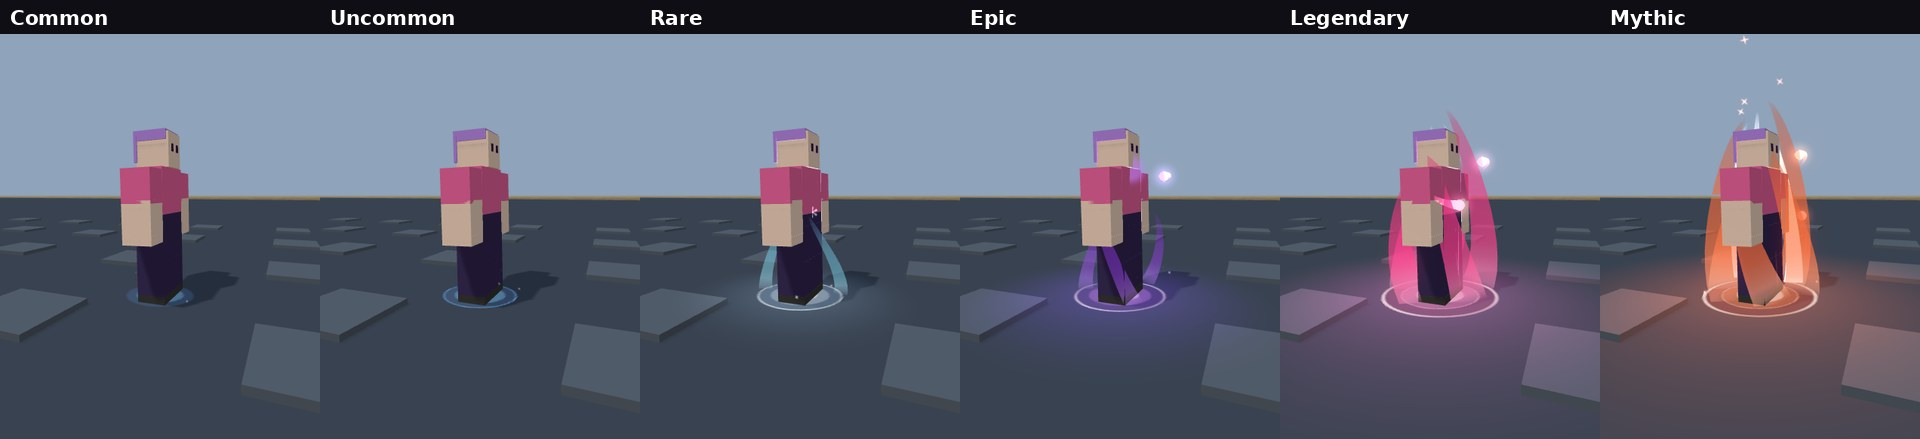
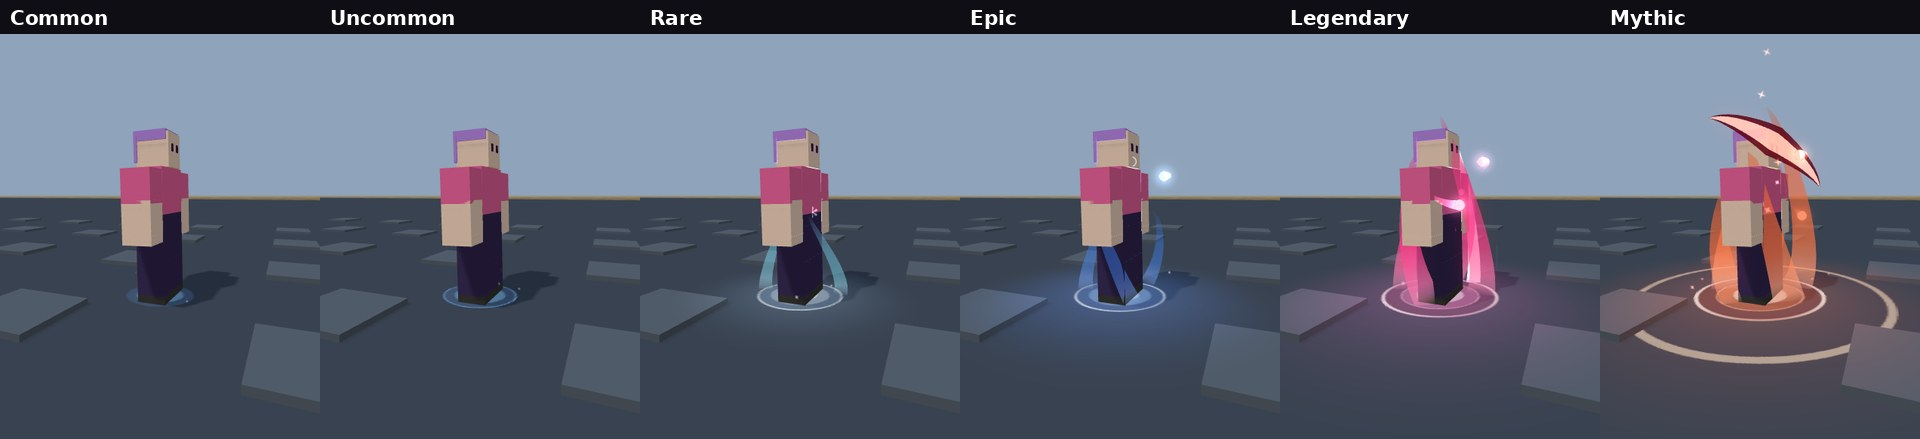
Owner's Oct 18 list, part 1: power buttons stay after the Hero run, longer rounds (Hero 30 s, run 60 s), calmer girl and aura effects, lag-proof knife claims, loop fixes (who wins, XP every game, fair pay, repeat girls pay coins, chapters open with one quest)
Claude-Session: https://claude.ai/code/session_01EDsA2tAUirA3BjYFW8rEgq

diff --git a/huzz-valley/CLAUDE.md b/huzz-valley/CLAUDE.md
@@ -147,6 +147,19 @@ Owner's own words are in quotes. Read only the section you need.
   HeroRun → Countdown → Running → RoundOver; GameOver. Runners win with everyone across 3 rounds in a row.
   Loop audit (Oct 17, `docs/loop-audit.md`): half of everyone's time was frozen, so Lineup 3 s, ChooseTime 6, ShowTime
   2, RoundEndPause 2.5, and one runner on the line skips the roulette (PickAt is set back so clients skip it too).
+  Owner Oct 18 ("make the round a bit longer, for example the hero round"): HeroTime 30 (was 20), RoundTime 60 (was 45).
+- **Power cards survive the Hero run** (owner Oct 18: "if you run out of time why dont you have any buttons
+  after?"): after a Hero run RoundService calls `PowerService.clear(true)` (traps and effects go, cards and
+  cooldowns stay); plain `clear()` had wiped PowerReady1/2, which hid the whole power bar (and the huss card) for
+  the run that followed. The sim checks every runner/catcher still playing has PowerReady1 in Running/HeroRun.
+- **Loop audit 2 (Oct 18, fixes in):** a catchers' win pays only catchers who caught someone (or the lead); the
+  girl goes to the catcher with the most catches (lead breaks ties); XP every game (`Config/Progression.GameXP`:
+  40 + 40 win + 25 a Hero run + 5 per crossing/rescue/catch; each level past the track pays `Beyond` 100 coins +
+  10 Aura); Hero bonus only with another runner in the game (solo farming paid ~10x); Pay 25/50; a repeat girl
+  pays `DupeCoins` by rarity; a chapter opens once ONE quest of the chapter before is claimed (solo players can't
+  rescue or catch; the screen shows `Progression.shownChapter`); only runners pick up stars in a game; Results:
+  CATCHES card, XP pill, "X takes her home"; Hero card "Make it: carry her +25", Chicken "Safe, but no girl".
+  Not done yet (need screens): a Crates tab so Aura has a use, a dot on Menu when a quest can be claimed.
 - **Countdown after a camera shot** (CHICKEN or no answer: owner, "the numbers just dont appear well"): RoundService
   adds `CAMERA_BACK` 0.6 s to a Countdown that follows Lineup/Picking/Chosen, so the camera's 0.3 s swing back ends
   first; RoundHud draws only the last 3 s, never while `HuzzCinematic` is on, times GO! from the server's EndsAt, and
@@ -171,7 +184,8 @@ Owner's own words are in quotes. Read only the section you need.
   (catchers' parts, `MapService.setCatcher` from `syncPlayer`; the bot too); `keepSafe()` pushes out any catcher
   who got past (`MapService.pushOut`).
 - **Chicken gets nothing** (owner Oct 18: "you dont recieve the girl if you run chicken"): a runner who chose
-  Chicken (not a timed-out random pick) can't be handed the girl at the end (`RoundRules` `chickens`); if every
+  Chicken (not a timed-out random pick) and never went Hero this game can't be handed the girl at the end
+  (`RoundRules` `chickens`, `brave`: one Hero run keeps the claim); if every
   runner left chose Chicken nobody wins her ("Nobody went HERO", Results "Chicken gets nothing. Go HERO to win
   her!"). Asked him on a card whether he meant a bug instead.
 - **Downed and revived:** a downed runner lies still (`KnockdownService`; owner Oct 18: "not have a swinging animations
@@ -221,7 +235,7 @@ Owner's own words are in quotes. Read only the section you need.
   runs (this game only: RoundService `tally`, filled by `addStat`) and the coins + Aura earned (Round remote
   "Results", per player; coins include a Hero bonus, Aura the stars collected: player attribute `HuzzGameAura`).
   Preview: `shots.sh <out> results`.
-- **Pay:** 15 coins a game, 35 for a win, +3 Aura on a win, Hero bonus 25; x2 while a wheel boost lasts.
+- **Pay:** 25 coins a game, 50 for a win, +3 Aura on a win, Hero bonus 25 (not alone); x2 while a wheel boost lasts.
 - **Girl odds** (`Config/Round.Rarities`, raised: "I'm only getting commons"): Common 28, Uncommon 24, Rare 20,
   Epic 14, Legendary 8, Mythic 4.5, Secret 1.5.
 - **News vs big moments** (feel study, Oct 17): RoundService `announce(text, color)` only writes the message line
@@ -306,6 +320,9 @@ Owner's own words are in quotes. Read only the section you need.
   6 emitters); + slash,
   hand glints/trails, 3 orbs (Mythic, 7); + two tones, crystals, butterflies, halo, 4 orbs (Secret, 9; budget 12).
   The prize gets at least the Rare look. Only the particles wait for uploads; everything else shows today.
+  Calmer (owner Oct 18, "a bit more lowkey for some"): Legendary 4+1 tongues, Mythic 5+2, Secret 6+2, shorter,
+  fainter (outer alpha 0.4), softer lights, fewer streaks. Worn auras: flame particles move with the body
+  (inherit 0.95; at 0.4 a running player trailed a long glowing band), smaller, half the rate, half the light.
   Spec: `check_girl_fx.luau` (budget, ladder, Rare/Epic tongues smaller and fewer than Legendary's, beat, pool follows,
   no per-frame instances). Tier row `motion3d/girl_tiers_scene.luau` + `tools/fx/girl_tiers_sheet.py` →
   `docs/previews/girl-vfx-tiers.jpg`. Film
